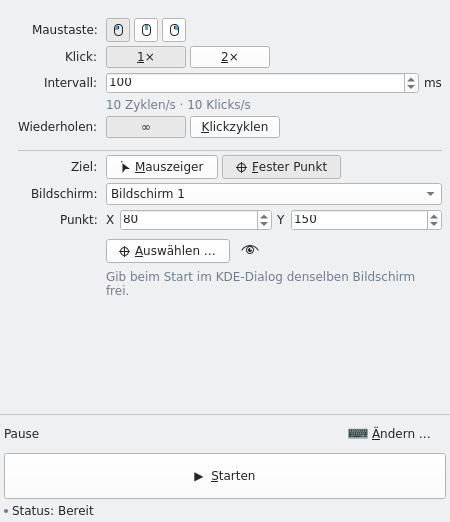
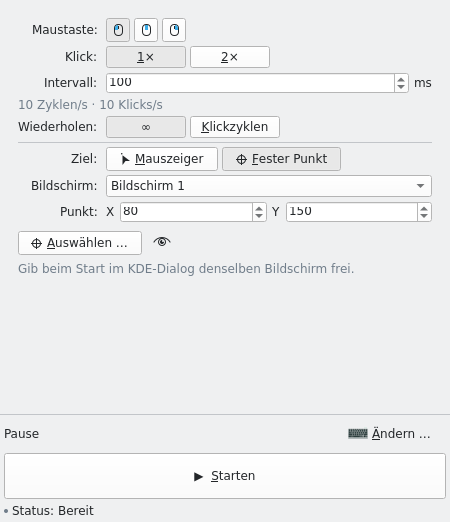
Keep settings within the window across Qt versions

diff --git a/qml/Main.qml b/qml/Main.qml
@@ -377,6 +377,7 @@ Kirigami.ApplicationWindow {
 
     pageStack.globalToolBar.style: Kirigami.ApplicationHeaderStyle.None
     pageStack.initialPage: Kirigami.ScrollablePage {
+        id: settingsPage
         header: Controls.ScrollView {
             id: messageHeader
             objectName: "messageHeader"
@@ -420,15 +421,34 @@ Kirigami.ApplicationWindow {
             function onBusyChanged() { if (controller.busy) monitorStopMessage.visible = false }
         }
 
-        Kirigami.FormLayout {
-            // Dynamic fields can leave Kirigami's automatic width hint stale.
-            wideMode: width >= Kirigami.Units.gridUnit * 22
-            implicitWidth: width
-            enabled: root.controlsEnabled
+        Connections {
+            target: root
+            function onActiveFocusItemChanged() {
+                const item = root.activeFocusItem
+                let ancestor = item
+                while (ancestor && ancestor !== settingsForm) ancestor = ancestor.parent
+                if (!ancestor) return
+                const position = item.mapToItem(settingsPage.flickable.contentItem, 0, 0)
+                settingsPage.ensureVisible(item, position.x - item.x, position.y - item.y)
+            }
+        }
 
+        GridLayout {
+            id: settingsForm
+            columns: width >= Kirigami.Units.gridUnit * 22 ? 2 : 1
+            columnSpacing: Kirigami.Units.largeSpacing
+            rowSpacing: Kirigami.Units.smallSpacing
+            enabled: root.controlsEnabled
+            Accessible.role: Accessible.Form
+
+            Controls.Label {
+                text: qsTr("Maustaste:")
+                Layout.alignment: settingsForm.columns === 2 ? Qt.AlignRight : Qt.AlignLeft
+            }
             ChoiceButtons {
                 objectName: "mouseButtonInput"
-                Kirigami.FormData.label: qsTr("Maustaste:")
+                Layout.fillWidth: true
+                Layout.minimumWidth: 0
                 iconOnly: true
                 value: controller.mouse_button
                 options: [
@@ -439,9 +459,14 @@ Kirigami.ApplicationWindow {
                 onSelected: choice => { controller.mouse_button = choice; controller.mark_settings_changed() }
             }
 
+            Controls.Label {
+                text: qsTr("Klick:")
+                Layout.alignment: settingsForm.columns === 2 ? Qt.AlignRight : Qt.AlignLeft
+            }
             ChoiceButtons {
                 objectName: "clickTypeInput"
-                Kirigami.FormData.label: qsTr("Klick:")
+                Layout.fillWidth: true
+                Layout.minimumWidth: 0
                 value: controller.click_type
                 options: [
                     { value: 0, text: qsTr("1×"), description: qsTr("Einzelklick") },
@@ -450,12 +475,18 @@ Kirigami.ApplicationWindow {
                 onSelected: choice => { controller.click_type = choice; controller.mark_settings_changed() }
             }
 
+            Controls.Label {
+                text: qsTr("Intervall:")
+                Layout.alignment: settingsForm.columns === 2 ? Qt.AlignRight : Qt.AlignLeft
+            }
             RowLayout {
-                Kirigami.FormData.label: qsTr("Intervall:")
+                Layout.fillWidth: true
+                Layout.minimumWidth: 0
                 Controls.SpinBox {
                     id: intervalInput
                     objectName: "intervalInput"
                     Layout.fillWidth: true
+                    Layout.minimumWidth: 0
                     from: 10
                     to: 86400000
                     stepSize: 10
@@ -472,44 +503,60 @@ Kirigami.ApplicationWindow {
 
             Controls.Label {
                 objectName: "rateLabel"
+                Layout.columnSpan: settingsForm.columns
                 Layout.fillWidth: true
                 color: Kirigami.Theme.disabledTextColor
                 text: root.rateDescription
                 wrapMode: Text.WordWrap
             }
 
-            RowLayout {
-                Kirigami.FormData.label: qsTr("Wiederholen:")
-                ChoiceButtons {
-                    objectName: "repeatModeInput"
-                    value: controller.repeat_until_stopped
-                    options: [
-                        { value: true, text: "∞", description: qsTr("Bis zum Stoppen") },
-                        { value: false, text: qsTr("Klickzyklen") }
-                    ]
-                    onSelected: choice => { controller.repeat_until_stopped = choice; controller.mark_settings_changed() }
-                }
-                Controls.SpinBox {
-                    objectName: "repeatInput"
-                    visible: !controller.repeat_until_stopped
-                    Layout.fillWidth: true
-                    from: 1
-                    to: 10000000
-                    editable: true
-                    wheelEnabled: false
-                    value: controller.repeat_count
-                    onValueModified: { controller.repeat_count = value; controller.mark_settings_changed() }
-                    Accessible.name: qsTr("Anzahl der Klickzyklen")
-                }
+            Controls.Label {
+                text: qsTr("Wiederholen:")
+                Layout.alignment: settingsForm.columns === 2 ? Qt.AlignRight : Qt.AlignLeft
+            }
+            ChoiceButtons {
+                objectName: "repeatModeInput"
+                Layout.fillWidth: true
+                Layout.minimumWidth: 0
+                value: controller.repeat_until_stopped
+                options: [
+                    { value: true, text: "∞", description: qsTr("Bis zum Stoppen") },
+                    { value: false, text: qsTr("Klickzyklen") }
+                ]
+                onSelected: choice => { controller.repeat_until_stopped = choice; controller.mark_settings_changed() }
+            }
+            Controls.Label {
+                text: qsTr("Anzahl:")
+                visible: !controller.repeat_until_stopped
+                Layout.alignment: settingsForm.columns === 2 ? Qt.AlignRight : Qt.AlignLeft
+            }
+            Controls.SpinBox {
+                objectName: "repeatInput"
+                visible: !controller.repeat_until_stopped
+                Layout.fillWidth: true
+                Layout.minimumWidth: 0
+                from: 1
+                to: 10000000
+                editable: true
+                wheelEnabled: false
+                value: controller.repeat_count
+                onValueModified: { controller.repeat_count = value; controller.mark_settings_changed() }
+                Accessible.name: qsTr("Anzahl der Klickzyklen")
             }
 
             Kirigami.Separator {
-                Kirigami.FormData.isSection: true
+                Layout.columnSpan: settingsForm.columns
+                Layout.fillWidth: true
             }
 
+            Controls.Label {
+                text: qsTr("Ziel:")
+                Layout.alignment: settingsForm.columns === 2 ? Qt.AlignRight : Qt.AlignLeft
+            }
             ChoiceButtons {
                 objectName: "positionModeInput"
-                Kirigami.FormData.label: qsTr("Ziel:")
+                Layout.fillWidth: true
+                Layout.minimumWidth: 0
                 value: controller.current_position
                 options: [
                     { value: true, icon: "cursor-arrow", text: qsTr("Mauszeiger"),
@@ -520,11 +567,16 @@ Kirigami.ApplicationWindow {
                 onSelected: choice => { controller.current_position = choice; controller.mark_settings_changed() }
             }
 
+            Controls.Label {
+                text: qsTr("Bildschirm:")
+                visible: root.fixedPosition
+                Layout.alignment: settingsForm.columns === 2 ? Qt.AlignRight : Qt.AlignLeft
+            }
             Controls.ComboBox {
                 id: monitorInput
                 objectName: "monitorInput"
-                Kirigami.FormData.label: qsTr("Bildschirm:")
                 Layout.fillWidth: true
+                Layout.minimumWidth: 0
                 visible: root.fixedPosition
                 model: root.monitorOptions
                 textRole: "label"
@@ -538,14 +590,21 @@ Kirigami.ApplicationWindow {
                 Accessible.name: qsTr("Bildschirm für die feste Position")
             }
 
+            Controls.Label {
+                text: qsTr("Punkt:")
+                visible: root.fixedPosition
+                Layout.alignment: settingsForm.columns === 2 ? Qt.AlignRight : Qt.AlignLeft
+            }
             RowLayout {
-                Kirigami.FormData.label: qsTr("Punkt:")
+                Layout.fillWidth: true
+                Layout.minimumWidth: 0
                 visible: root.fixedPosition
                 Controls.Label { text: "X" }
                 Controls.SpinBox {
                     id: xInput
                     objectName: "xInput"
                     Layout.fillWidth: true
+                    Layout.minimumWidth: 0
                     from: 0
                     to: Math.max(0, controller.monitor_width - 1)
                     editable: true
@@ -559,6 +618,7 @@ Kirigami.ApplicationWindow {
                     id: yInput
                     objectName: "yInput"
                     Layout.fillWidth: true
+                    Layout.minimumWidth: 0
                     from: 0
                     to: Math.max(0, controller.monitor_height - 1)
                     editable: true
@@ -570,6 +630,7 @@ Kirigami.ApplicationWindow {
             }
 
             RowLayout {
+                Layout.columnSpan: settingsForm.columns
                 visible: root.fixedPosition
                 Controls.Button {
                     objectName: "pickButton"
@@ -596,6 +657,7 @@ Kirigami.ApplicationWindow {
 
             Kirigami.InlineMessage {
                 objectName: "confirmMessage"
+                Layout.columnSpan: settingsForm.columns
                 Layout.fillWidth: true
                 visible: root.fixedPosition && !controller.fixed_position_confirmed
                 type: Kirigami.MessageType.Warning
@@ -604,6 +666,7 @@ Kirigami.ApplicationWindow {
 
             Controls.Button {
                 objectName: "confirmMonitorButton"
+                Layout.columnSpan: settingsForm.columns
                 visible: root.fixedPosition && !controller.fixed_position_confirmed
                 enabled: !!root.selectedMonitor
                 icon.name: "dialog-ok-apply"
@@ -612,6 +675,7 @@ Kirigami.ApplicationWindow {
             }
 
             Controls.Label {
+                Layout.columnSpan: settingsForm.columns
                 Layout.fillWidth: true
                 visible: root.fixedPosition
                 wrapMode: Text.WordWrap

diff --git a/tests/qml/tst_main.qml b/tests/qml/tst_main.qml
@@ -93,6 +93,20 @@ TestCase {
         }
     }
 
+    function test_keyboard_focus_scrolls_settings_into_view() {
+        main.width = main.minimumWidth
+        main.height = main.minimumHeight
+        controller.current_position = false
+        const input = findChild(main, "yInput")
+        waitForRendering(input)
+        input.forceActiveFocus(Qt.TabFocusReason)
+        const flickable = main.pageStack.currentItem.flickable
+        tryVerify(() => {
+            const point = input.mapToItem(flickable, 0, 0)
+            return point.y >= 0 && point.y + input.height <= flickable.height
+        })
+    }
+
     function test_mouse_icon_buttons_have_tooltips() {
         const button = choice("mouseButtonInput", "Links")
         // The offscreen platform disables hover effects by default.

diff --git a/qml/ChoiceButtons.qml b/qml/ChoiceButtons.qml
@@ -23,6 +23,7 @@ RowLayout {
             required property var modelData
             readonly property string description: modelData.description ?? modelData.text
 
+            Layout.minimumWidth: 0
             checkable: true
             autoExclusive: true
             checked: modelData.value === choices.value
